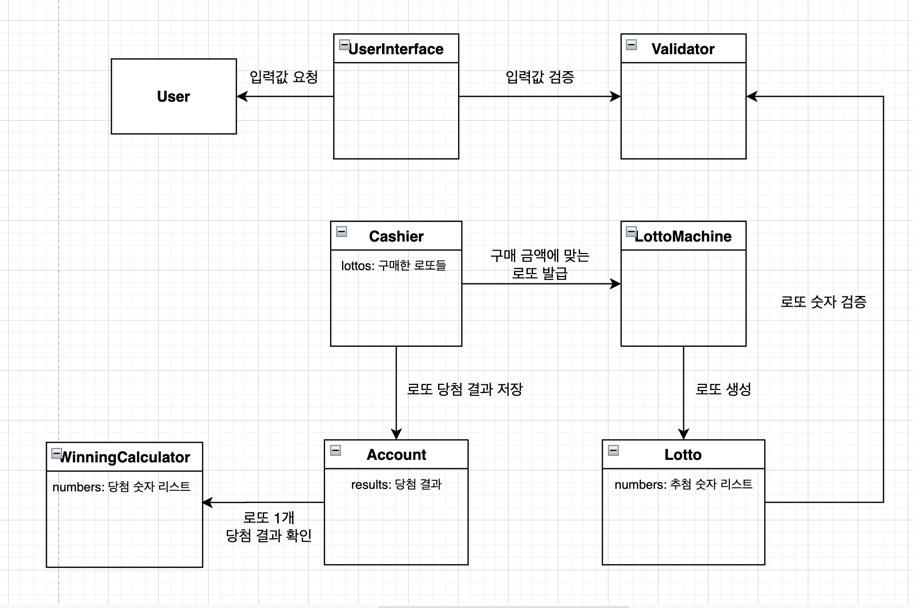
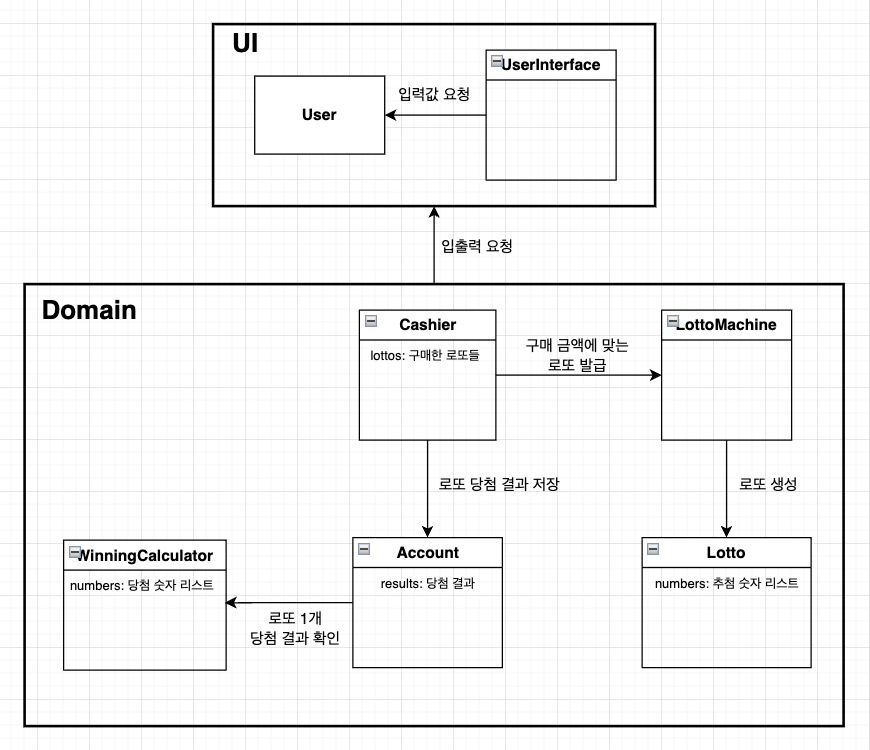
refactor: Validator 삭제하고 유효성 검사 로직을 입력과 도메인 로직으로 분리

Changed region(s): [[0.0, 0.0, 1.0, 1.0], [0.4345, 0.625, 0.6517, 0.6562]]

diff --git a/docs/README.md b/docs/README.md
@@ -10,7 +10,6 @@
 ## 도메인 모델링
 ![img.png](domain-model.png)
 - UserInterface : 사용자 입출력
-- Validator : 유효성 검증
 - Cashier : 로또 발급과 당첨금 계산을 요청
 - LottoMachine : 로또를 발급
 - Lotto : 로또 정보를 보관
@@ -27,11 +26,9 @@
 - [x] 당첨 통계 출력
   - [x] 당첨 결과 출력
   - [x] 수익률 출력
-
-### Validator
-- [ ] 입력 금액 유효성 검사
-- [ ] 당첨 번호 유효성 검사
-- [ ] 보너스 번호 유효성 검사
+- [ ] 입력 금액 유효성 검사 : 0으로 시작하지 않는 4자리 이상 9자리 이하 숫자
+- [ ] 당첨 번호 유효성 검사 : 공백 없이 ","로 이어진 6개 숫자
+- [ ] 보너스 번호 유효성 검사 : 두 자리 이하의 숫자
 
 ### Cashier
 - [x] 구매 금액 만큼 로또 발행 요청
@@ -43,6 +40,8 @@
 - [x] 구매 금액에 맞는 로또 발행
     - [x] 구매 금액에 맞는 발행 개수 세기
     - [x] 로또 번호 발행
+- [ ] 입력 금액 유효성 검사
+  - [ ] 1000의 배수 여부
 
 ### Lotto
 - [ ] 번호 유효성 검사
@@ -62,6 +61,13 @@
     - [x] 당첨 번호와 비교
     - [x] 보너스 번호 포함 여부 확인
     - [x] 해당하는 결과 확인
+- [ ] 당첨 번호 유효성 검사 :
+  - [ ] 번호 개수 확인
+  - [ ] 로또 규칙 범위 안에 있는지 확인
+  - [ ] 중복 확인
+- [ ] 보너스 번호 유효성 검사
+  - [ ] 로또 규칙 범위 안에 있는지 확인
+  - [ ] 당첨 번호에 이미 포함되지 않았는지 확인
 
 ### (enum) WinningResult : 당첨 관련 규칙 상수 집합
 - [x] 구현하기
